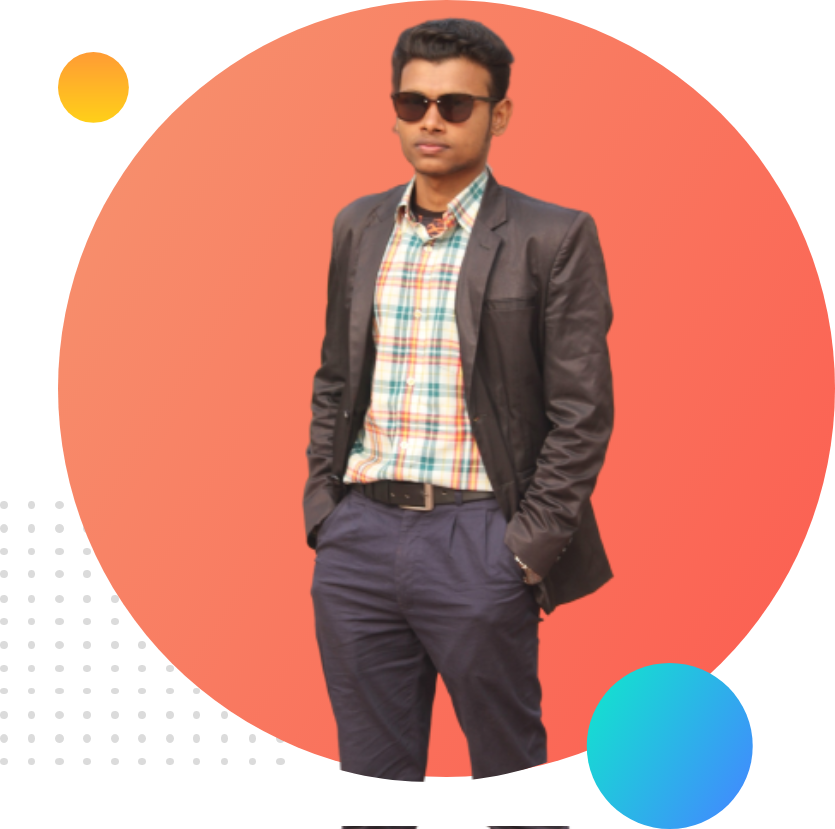
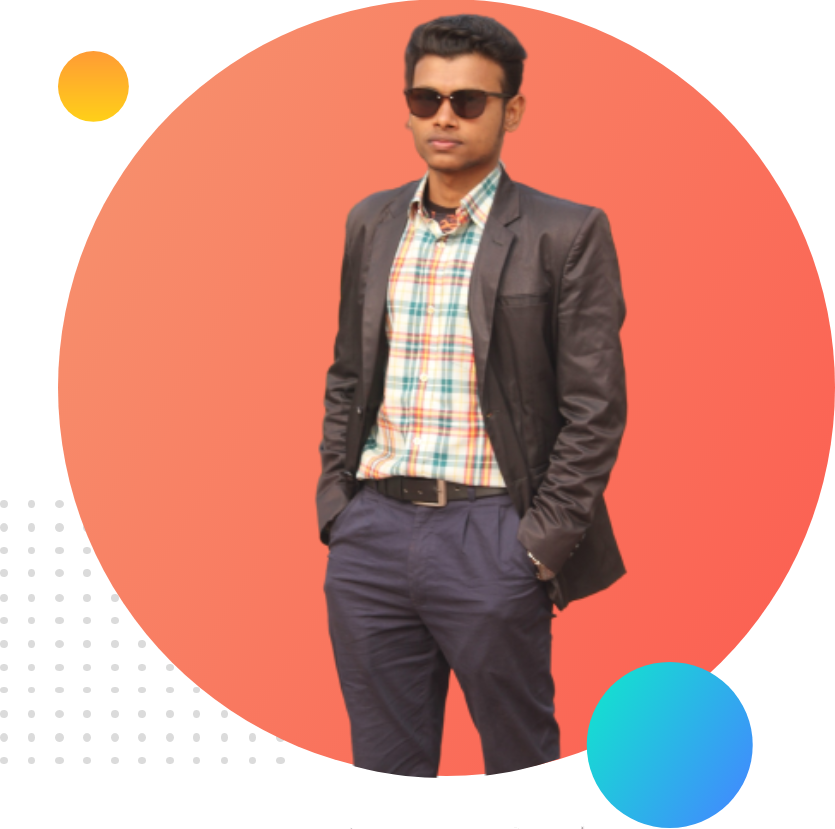
add to images

diff --git a/index.html b/index.html
@@ -9,9 +9,16 @@
     <link rel="stylesheet" href="style.css">
 </head>
 <body>
-    <h1>Wellcome To</h1>
-    <h1><span class="highlight">Sekh Sadi</span> Website</h1>
-    <h3>World-class professional web developer </h3>
-    <p class="para">A web developer makes and maintains websites. They are in charge of a site's overall look and feel. Web developers also handle the technical aspects of a website, including its performance (website speed) and capacity (the maximum amount of traffic the site could handle at a given time).</p>
+    <section>
+        <div class="half-width">
+            <h1>Wellcome To</h1>
+            <h1><span class="highlight">Sekh Sadi</span> Website</h1>
+            <h3>World-class professional web developer </h3>
+            <p class="para">A web developer makes and maintains websites. They are in charge of a site's overall look and feel. Web developers also handle the technical aspects of a website, including its performance (website speed) and capacity (the maximum amount of traffic the site could handle at a given time).</p>
+        </div>
+        <div class="half-width">
+            <img src="./images/my-bg.png" alt="">
+        </div>
+    </section>
 </body>
 </html>     

diff --git a/style.css b/style.css
@@ -9,4 +9,15 @@ h1{
 }
 .para{
     font-family:sans-serif;
+    color: rgb(152, 150, 150);
+    text-align: justify;
+}
+.half-width{
+    width: 40%;
+    float: left;
+    margin-left: 5%;
+    padding-left: 2%;
+}
+.half-width img{
+    width: 100%;
 }
